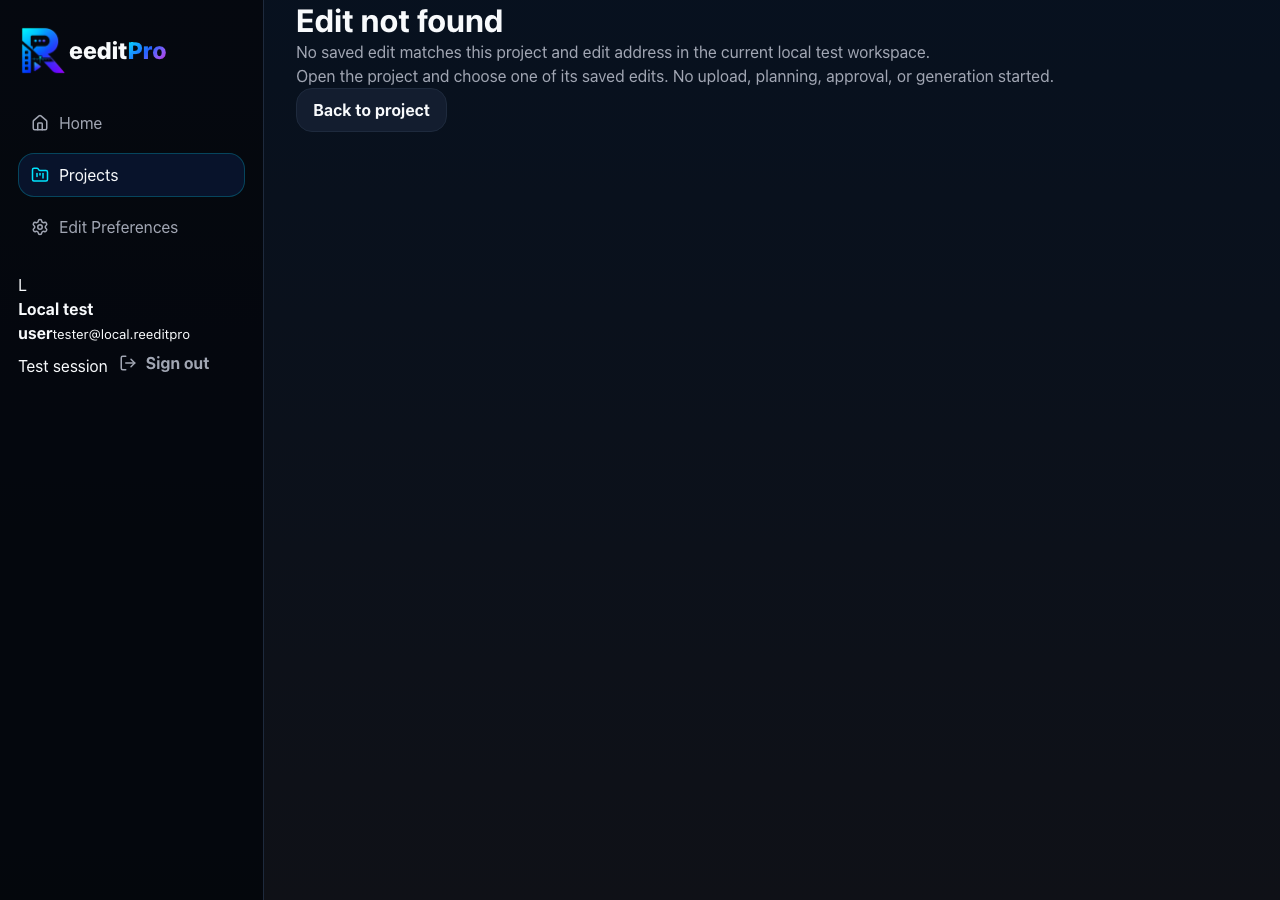
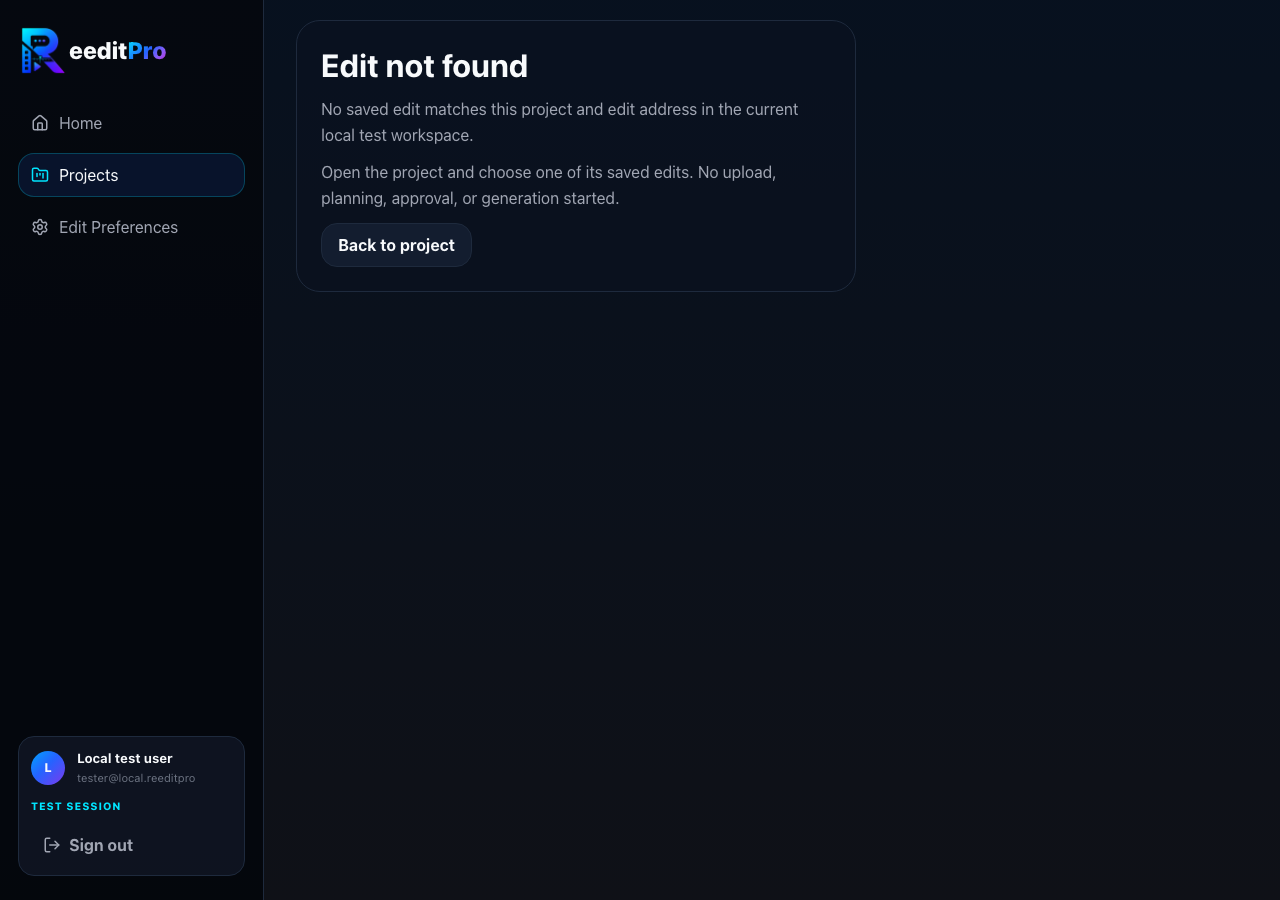
Restore shared recovery state surfaces

diff --git a/tests/e2e/project-persistence-tenancy.spec.ts b/tests/e2e/project-persistence-tenancy.spec.ts
@@ -8,7 +8,7 @@ import {
   LEGACY_UNSCOPED_LOCAL_PROJECT_STORAGE_KEY,
 } from '../../src/lib/local-projects'
 import { createProjectPersistenceScopeFingerprint } from '../../src/lib/project-persistence-scope'
-import { setViewport } from './helpers/layout'
+import { expectNoHorizontalOverflow, setViewport } from './helpers/layout'
 import { gotoRoute } from './helpers/routes'
 
 const currentScope = {
@@ -69,8 +69,14 @@ test.describe('project persistence tenancy', () => {
 
     await gotoRoute(page, '/projects')
     await expect(page.getByText('Current scoped project')).toBeVisible()
-    await expect(page.getByTestId('projects-recovery-local-only')).toBeVisible()
-    await expect(page.getByTestId('projects-recovery-local-only')).toContainText(/browser is the recovery source/i)
+    const projectsRecovery = page.getByTestId('projects-recovery-local-only')
+    await expect(projectsRecovery).toBeVisible()
+    await expect(projectsRecovery).toContainText(/browser is the recovery source/i)
+    expect(await projectsRecovery.evaluate((element) => getComputedStyle(element).display)).toBe('grid')
+    expect(
+      await projectsRecovery.evaluate((element) => getComputedStyle(element).gridTemplateColumns.trim().split(/\s+/).length),
+    ).toBe(3)
+    expect(await projectsRecovery.evaluate((element) => getComputedStyle(element).borderTopWidth)).toBe('1px')
     await expect(page.getByText('Foreign user private project')).toHaveCount(0)
     await expect(page.getByText('Foreign workspace private project')).toHaveCount(0)
     await expect(page.getByText('Legacy unscoped private project')).toHaveCount(0)
@@ -78,7 +84,19 @@ test.describe('project persistence tenancy', () => {
 
     await page.getByRole('link', { name: /Open project/i }).click()
     await expect(page.getByRole('heading', { level: 1, name: 'Current scoped project' })).toBeVisible()
-    await expect(page.getByTestId('project-recovery-local-only')).toContainText(/browser is the recovery source/i)
+    const projectRecovery = page.getByTestId('project-recovery-local-only')
+    await expect(projectRecovery).toContainText(/browser is the recovery source/i)
+    expect(await projectRecovery.evaluate((element) => getComputedStyle(element).display)).toBe('grid')
+    expect(
+      await projectRecovery.evaluate((element) => getComputedStyle(element).gridTemplateColumns.trim().split(/\s+/).length),
+    ).toBe(3)
+
+    await setViewport(page, 700)
+    expect(
+      await projectRecovery.evaluate((element) => getComputedStyle(element).gridTemplateColumns.trim().split(/\s+/).length),
+    ).toBe(1)
+    await expectNoHorizontalOverflow(page)
+    await setViewport(page, 1280)
     await gotoRoute(page, '/projects')
 
     await page.getByTestId('app-session-identity').getByRole('button', { name: /^Sign out$/i }).click()

diff --git a/src/styles/layout.css b/src/styles/layout.css
@@ -96,6 +96,101 @@
   width: 14px;
 }
 
+.clean-empty-state {
+  background: rgba(11, 18, 32, 0.66);
+  border: 1px solid var(--rp-border-subtle);
+  border-radius: var(--rp-radius-lg);
+  display: grid;
+  gap: var(--rp-space-3);
+  margin-top: var(--rp-space-5);
+  max-width: 560px;
+  min-width: 0;
+  padding: var(--rp-space-6);
+}
+
+.clean-empty-state p {
+  color: var(--rp-text-secondary);
+  line-height: 1.6;
+}
+
+.clean-hero-actions {
+  align-items: center;
+  display: flex;
+  flex-wrap: wrap;
+  gap: var(--rp-space-3);
+}
+
+.project-resource-state {
+  align-items: start;
+  background: var(--rp-surface-panel);
+  border: 1px solid var(--rp-border-subtle);
+  border-radius: var(--rp-radius-lg);
+  display: grid;
+  gap: var(--rp-space-3);
+  margin-top: var(--rp-space-5);
+  max-width: 640px;
+  min-width: 0;
+  padding: var(--rp-space-6);
+}
+
+.project-resource-state.is-compact {
+  align-items: center;
+  grid-template-columns: auto minmax(0, 1fr) auto;
+  max-width: none;
+  padding: var(--rp-space-3) var(--rp-space-4);
+}
+
+.project-resource-state-copy {
+  display: grid;
+  gap: var(--rp-space-1);
+  min-width: 0;
+}
+
+.project-resource-state-copy h2 {
+  font-size: 1rem;
+  line-height: 1.3;
+}
+
+.project-resource-state:not(.is-compact) .project-resource-state-copy h2 {
+  font-size: 1.3rem;
+}
+
+.project-resource-state-copy p {
+  color: var(--rp-text-secondary);
+  overflow-wrap: anywhere;
+}
+
+.project-resource-state-icon {
+  color: var(--rp-info);
+}
+
+.project-resource-state-not_found,
+.project-resource-state-invalid_response,
+.project-resource-state-local_only {
+  border-color: var(--rp-border-warning);
+}
+
+.project-resource-state-not_found .project-resource-state-icon,
+.project-resource-state-invalid_response .project-resource-state-icon,
+.project-resource-state-local_only .project-resource-state-icon {
+  color: var(--rp-warning);
+}
+
+.project-resource-state-access_denied {
+  border-color: var(--rp-border-danger);
+}
+
+.project-resource-state-access_denied .project-resource-state-icon {
+  color: var(--rp-danger);
+}
+
+.project-resource-state-actions {
+  align-items: center;
+  display: flex;
+  flex-wrap: wrap;
+  gap: var(--rp-space-2);
+}
+
 .app-shell {
   display: grid;
   grid-template-columns: var(--rp-sidebar-width) minmax(0, 1fr);

diff --git a/tests/e2e/viewport.spec.ts b/tests/e2e/viewport.spec.ts
@@ -108,6 +108,18 @@ test.describe('route viewport QA', () => {
         await expect(recoveryError).toContainText(/Edit not found/i)
         await expect(recoveryError.getByRole('link', { name: /Back to project/i })).toBeVisible()
         await expect(page.getByTestId('editor-page')).toHaveCount(0)
+        const recoveryStyle = await recoveryError.evaluate((element) => {
+          const style = getComputedStyle(element)
+          return {
+            borderTopWidth: style.borderTopWidth,
+            display: style.display,
+            maxWidth: style.maxWidth,
+          }
+        })
+        expect(recoveryStyle).toEqual({ borderTopWidth: '1px', display: 'grid', maxWidth: '560px' })
+        expect(
+          await recoveryError.locator('.clean-hero-actions').evaluate((element) => getComputedStyle(element).display),
+        ).toBe('flex')
         await expectNoHorizontalOverflow(page)
       })
     }

diff --git a/src/styles/responsive.css b/src/styles/responsive.css
@@ -433,6 +433,7 @@
 
   .clean-setting-row,
   .testing-connection-probe-row,
+  .project-resource-state.is-compact,
   .preference-grid,
   .clean-toggle-row {
     grid-template-columns: 1fr;
@@ -440,6 +441,7 @@
 
   .preference-page-actions,
   .project-create-actions,
+  .project-resource-state-actions,
   .preference-recovery-actions {
     align-items: stretch;
     flex-direction: column;

diff --git a/docs/ui-ux-active-product-redesign-plan.md b/docs/ui-ux-active-product-redesign-plan.md
@@ -336,7 +336,7 @@ New values belong in tokens before route CSS. Avoid one-off glow, radius, shadow
 ### 5. Whole-Product Visual Consistency — In Progress
 
 - Home, Projects, and Project Home now use the shared bounded hierarchy, surface levels, and semantic status treatment.
-- Saved and Current Edit Preferences now use the canonical seven-field system with explicit persistence/recovery truth, inherited/overridden state, responsive hierarchy, guarded drafts, and visually reviewed action states. Landing, Sign In, Create Project, the active named-edit upload gate, responsive conversation/preview composition, planning-input status, Edit Brief, Plan Review, progress framing, and Private Review now follow the same system. Any remaining named-edit revision/recovery states still require their route-specific visual passes.
+- Saved and Current Edit Preferences now use the canonical seven-field system with explicit persistence/recovery truth, inherited/overridden state, responsive hierarchy, guarded drafts, and visually reviewed action states. Landing, Sign In, Create Project, shared project/edit recovery, the active named-edit upload gate, responsive conversation/preview composition, planning-input status, Edit Brief, Plan Review, progress framing, and Private Review now follow the same system. Any remaining named-edit revision states still require their route-specific visual pass.
 - Preserve route-specific identity as work continues: marketing is expressive, app routes operational, editor open and conversational.
 
 ### 6. Final Active-Route Signoff — Pending Whole-Product Completion
@@ -412,7 +412,15 @@ Focused Landing and public-entry evidence on 2026-07-13:
 - The public entry now presents one chat-first promise, one primary action, a truthful named-edit planning/approval preview, transparent pre-approval credits, and bounded workflow/signature/use-case/private-workspace sections instead of a generic feature-card wall.
 - Seven focused public-route checks pass across 375, 720, 1024, and 1280 widths plus compact landscape and reduced-motion mode. They prove the responsive hero/editor/trust hierarchy, compact second-row navigation, native workflow anchor, hidden-until-focused skip route, and no horizontal overflow.
 - The focused non-editor screenshot flow passes, and `landing-1280.png`, `landing-1024.png`, and `landing-720.png` passed visual review against the active route design rules.
-- This closes the active Landing presentation pass only. It does not activate uploads, planning, credits, providers, workers, rendering, billing, deployment, or public delivery. Remaining revision/recovery states, the complete E2E rerun, and founder-level whole-product signoff remain pending.
+- This closes the active Landing presentation pass only. It does not activate uploads, planning, credits, providers, workers, rendering, billing, deployment, or public delivery. Shared recovery is evidenced separately below; remaining revision states, the complete E2E rerun, and founder-level whole-product signoff remain pending.
+
+Focused shared project/edit recovery evidence on 2026-07-13:
+
+- Regression-first coverage reproduced the missing shared state layer: compact Project/Project Detail recovery rendered as unbounded document flow, while named-edit failure rendered as a raw block with no focal boundary.
+- The restored state system keeps loading, local-only, not-found, unavailable, invalid-response, and access-denied semantics visible through copy, icon, border treatment, and ARIA role rather than color alone. No recovery result is reclassified and no retry or navigation contract changes.
+- Sixty-six project tenancy, Home recovery, responsive route, exact-project return, legacy redirect, and named-edit recovery checks pass together. A separate 22-check editor/clean-chat run passes the unknown-route fail-closed path, normal revision replanning, approval, and private-review flow. Computed styles prove compact three-column recovery, its single-column 700px collapse, the bounded 560px named-edit failure surface, and horizontal-overflow safety from 1024 through 1920px.
+- The active project/named-edit screenshot flow passes. `project-detail-1280.png` and `named-edit-recovery-error-1280.png` passed visual review; the editor still does not mount behind a failed recovery state.
+- This closes the shared recovery presentation pass only. It does not activate a backend, Supabase, uploads, planning, approvals, credits, providers, workers, rendering, billing, deployment, or public delivery. Remaining revision states, the complete E2E rerun, and founder-level whole-product signoff remain pending.
 
 ## Definition Of Done
 

diff --git a/design-system/pages/edit-workspace.md b/design-system/pages/edit-workspace.md
@@ -50,7 +50,9 @@ Complete one edit through the smallest current decision, one plan/credit approva
 - `docs/ui-ux-screenshots/active-product-redesign-2026-07-10/named-edit-brief-1280.png`
 - `docs/ui-ux-screenshots/active-product-redesign-2026-07-10/named-edit-plan-review-1280.png`
 - `docs/ui-ux-screenshots/active-product-redesign-2026-07-10/named-edit-private-review-1280.png`
+- `docs/ui-ux-screenshots/active-product-redesign-2026-07-10/named-edit-recovery-error-1280.png`
 - Exact project Back navigation, workspace active state, retained project/edit identity, and non-overflowing layout pass at 1024px, 1280px, 1440px, 1728px, and 1920px.
 - The focused editor suite passes 20/20 checks, the viewport suite passes 59/59, and the clean-shell/keyboard/zoom group passes 9/9 after the named-edit and Edit Brief presentation restoration.
 - Guarded local browser review confirms the upload gate and wide preview rail at 1280px, the single-column workspace at 1024px, and no horizontal overflow or console errors in either state.
 - Computed-style regressions prove the Plan Review checkpoint, intent accent, four/two/one-column fact hierarchy, estimate alignment, private-review playback surface, review metadata, skill trace, and preparation activity grid.
+- Named-edit loading and failure resolve before editor mount. Blocking recovery uses one bounded 560px state surface with truthful guidance, a safe retry/back action when applicable, and no exposed empty editor.

diff --git a/design-system/pages/projects.md b/design-system/pages/projects.md
@@ -54,4 +54,5 @@ The pressed state is programmatic through `aria-pressed`. Search and filters pre
 - 1024, 1280, 1440, 1728, and 1920 overflow checks.
 - Empty and populated screenshot review.
 - Status readable without color.
+- Shared recovery surfaces use a bounded semantic card at blocking scope and a compact three-column row when trusted local work remains; the compact row stacks cleanly below 720px.
 - No retired product areas or internal diagnostics.

diff --git a/design-system/pages/project-home.md b/design-system/pages/project-home.md
@@ -55,4 +55,5 @@ State-aware actions include Upload Source, Continue Setup, View Progress, Open R
 - Same-name project identity and New Edit dialog E2E.
 - 1024, 1280, 1440, 1728, and 1920 overflow checks.
 - Populated Project Home screenshot review.
+- Compact local-recovery truth retains icon, copy, and actions as one bounded row and becomes a readable single-column surface below 720px.
 - No decorative status badges or duplicate H1.
